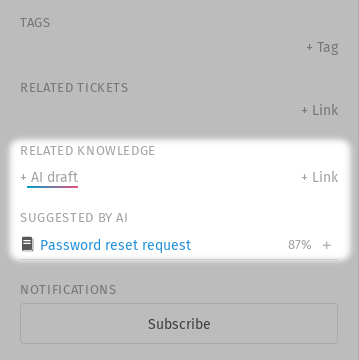
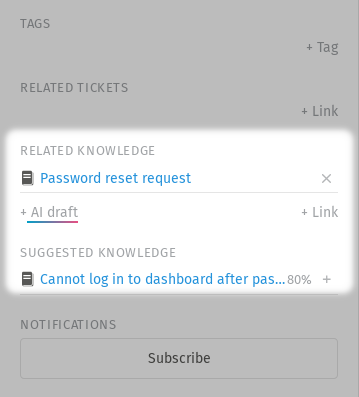
Fix: rename "Suggested by AI" label to "Suggested knowledge" (zammad #6323)

diff --git a/extras/ai-features.rst b/extras/ai-features.rst
@@ -94,7 +94,7 @@ Knowledge Base Assistant
 ------------------------
 
 .. figure:: /images/extras/ai/related-knowledge-ticket-sidebar.png
-   :alt: Related knowledge section of the ticket sidebar with "+ AI draft" button and AI-suggested answer.
+   :alt: Related knowledge section of the ticket sidebar with the + AI draft button and a suggested knowledge base answer.
    :align: center
 
 Knowledge Base Answer Generation
@@ -132,7 +132,7 @@ Knowledge Base Answer Suggestion
 ^^^^^^^^^^^^^^^^^^^^^^^^^^^^^^^^
 
 This feature compares the ticket content against the knowledge base and shows
-relevant answers under **Suggested by AI** if they meet the admin-configured
+relevant answers under **Suggested knowledge** if they meet the admin-configured
 score threshold. Each suggestion shows the title of the answer and more details
 on hover. An additional relevance score is only shown to users with the
 corresponding admin permissions. Click on the title to open the answer in the
